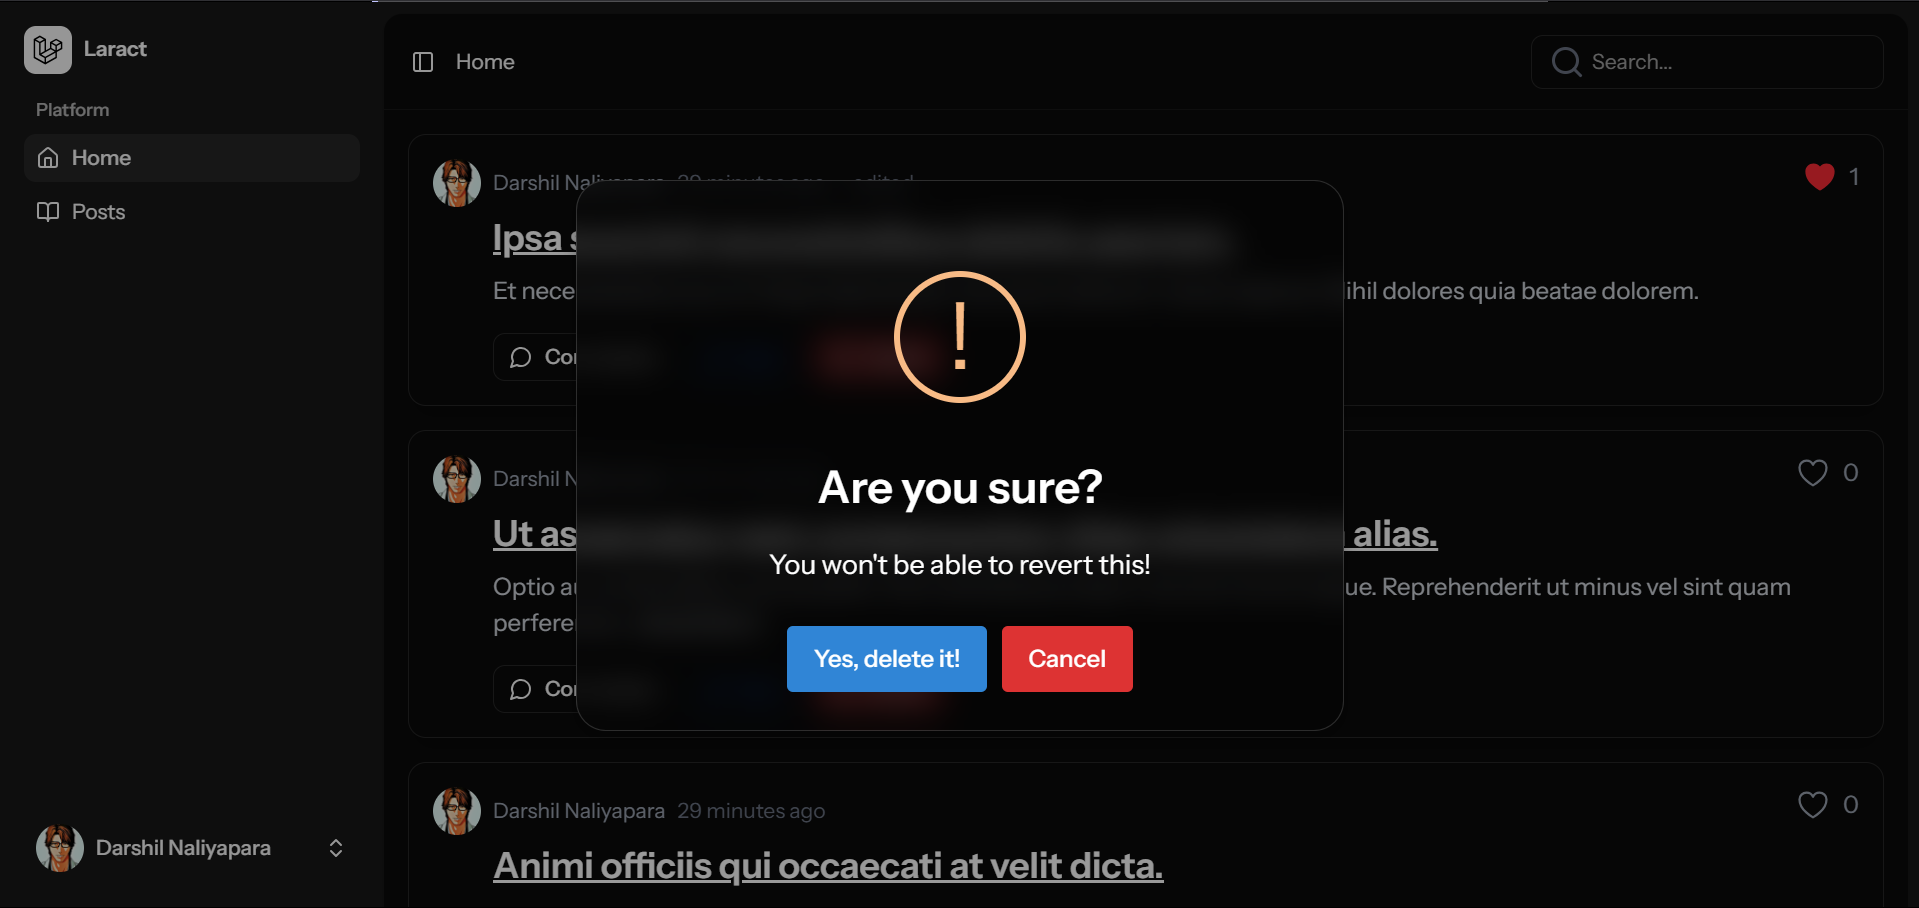
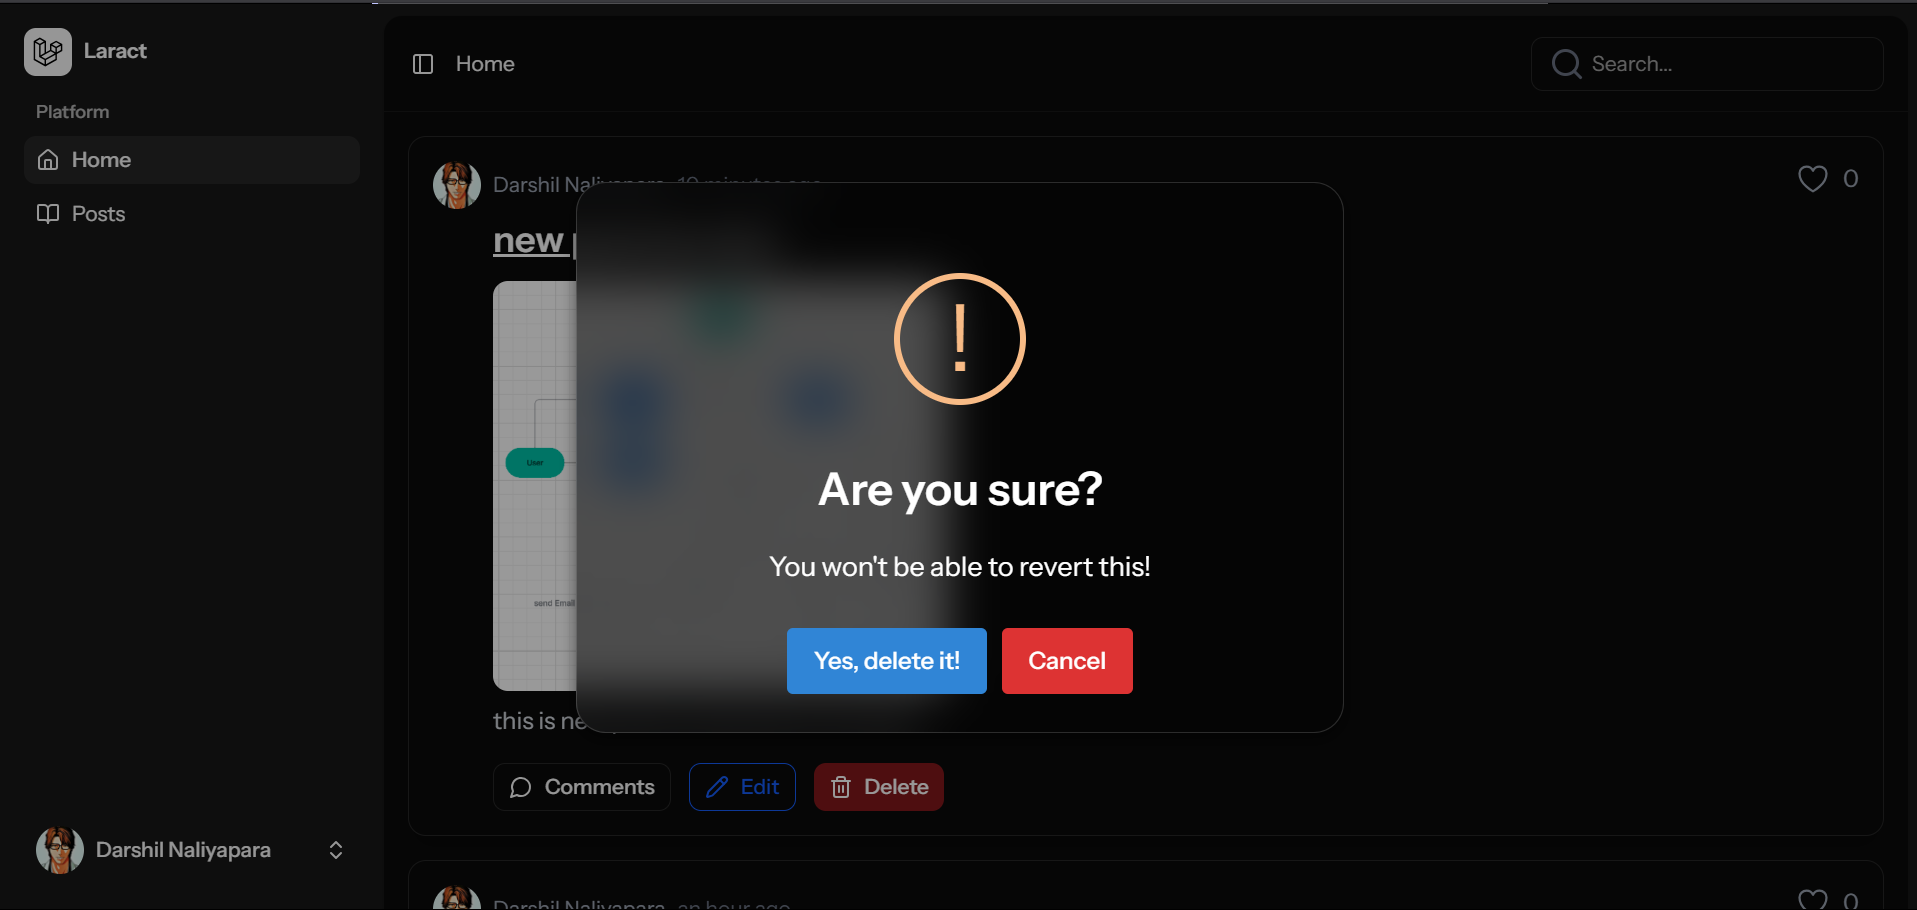
Update backdrop filter in post component for enhanced visual clarity; update delete confirmation screenshot

diff --git a/resources/js/components/post.tsx b/resources/js/components/post.tsx
@@ -71,7 +71,7 @@ export default function Post({ post, commentingPost, toggleComment }: PostProps)
                         borderRadius: "20px",
                         background: "rgba(3, 3, 3, 0.5)",
                         color: "#fff",
-                        backdropFilter: "blur(10px)",
+                        backdropFilter: "blur(15px)",
                         border: "1px solid rgba(200, 200, 200, 0.2)",
                         boxShadow: "0 4px 10px rgba(0, 0, 0, 0.5)",
                         padding: "20px",
